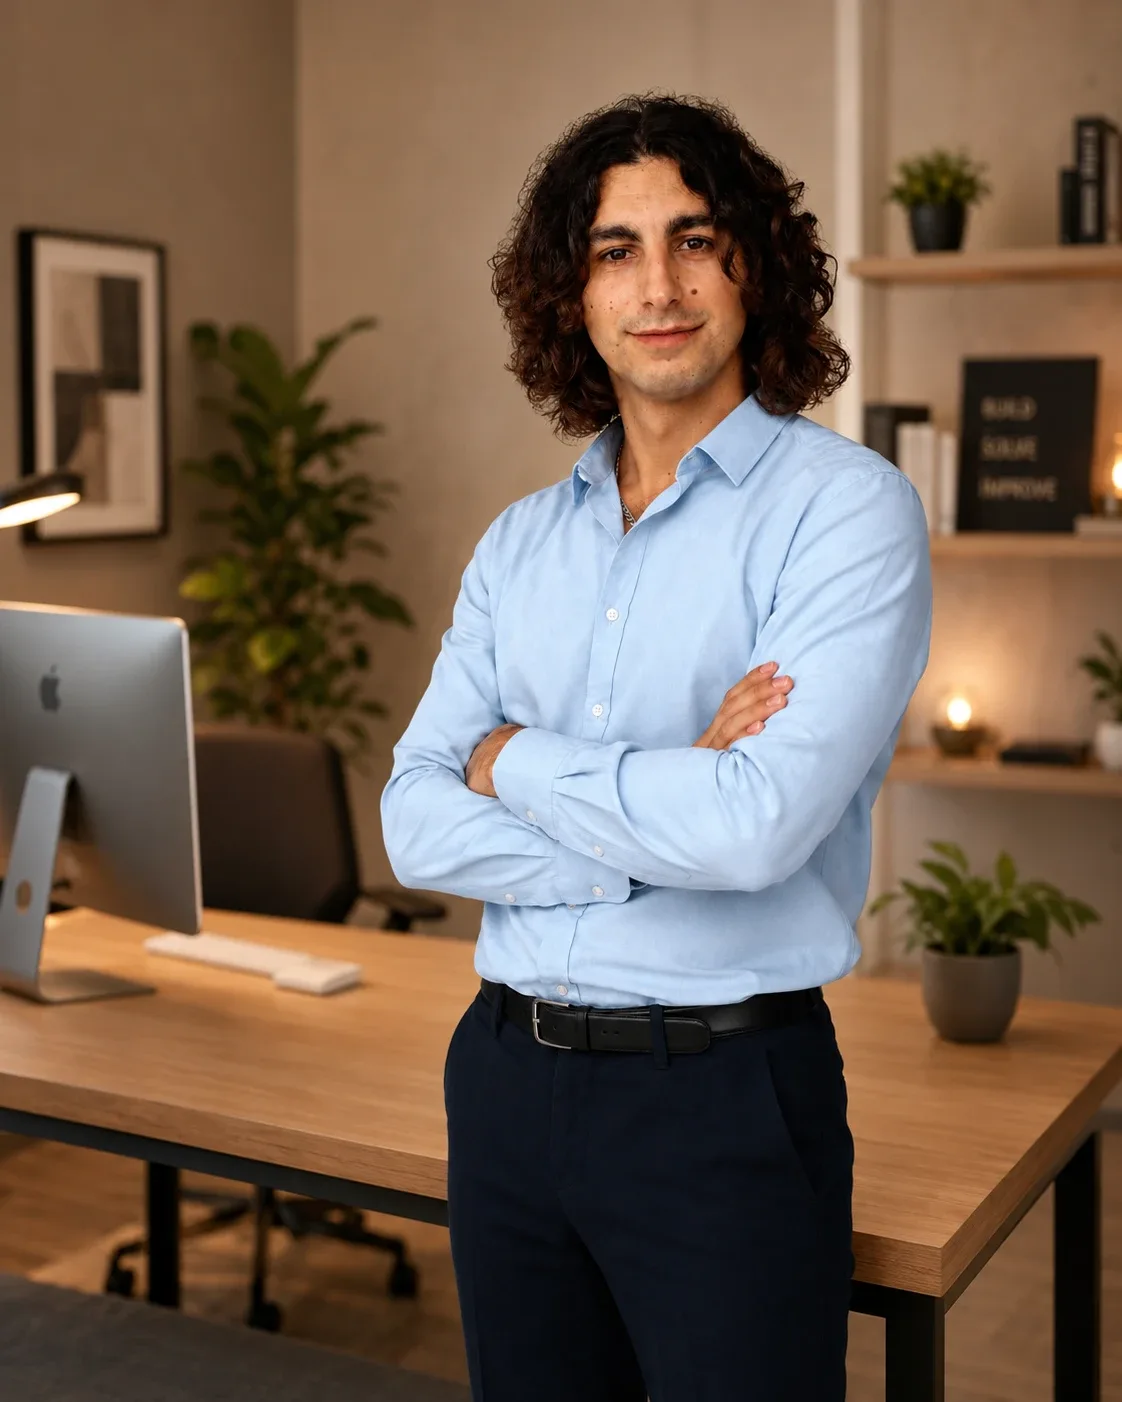
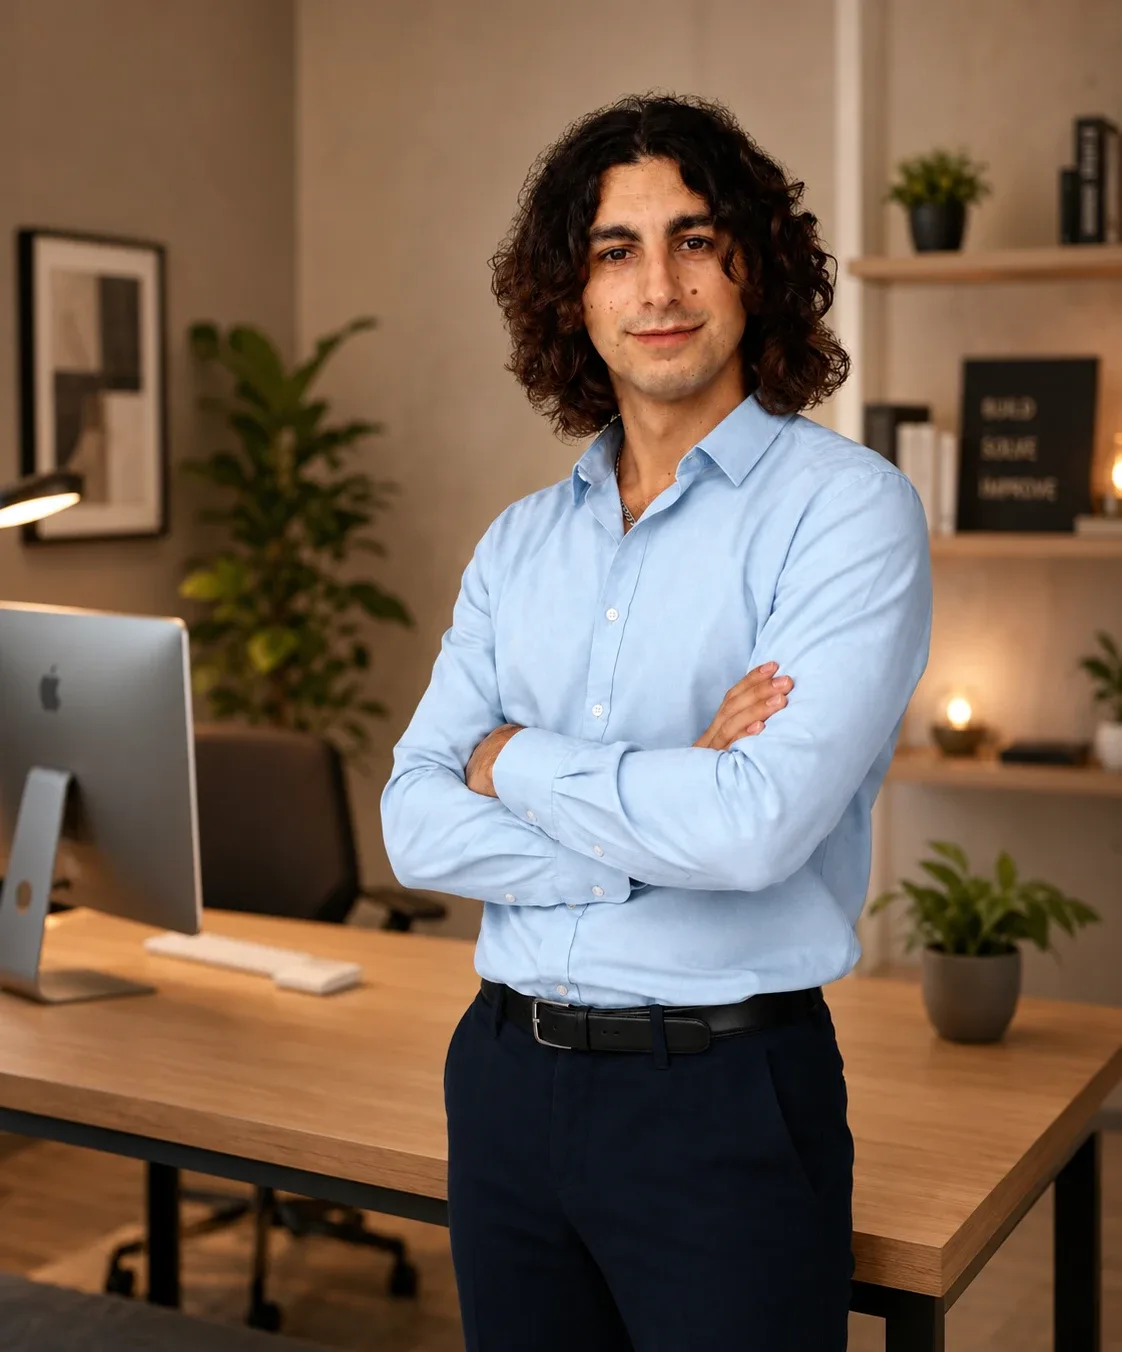
fix(home): recortar 50px inferiores del retrato del hero

diff --git a/next_app/components/Hero.tsx b/next_app/components/Hero.tsx
@@ -67,7 +67,7 @@ export default function Hero() {
                 src="/assets/images/carles-del-olmo-retrato-estudio.webp"
                 alt="Carles del Olmo, diseñador web, en su estudio"
                 width={1122}
-                height={1402}
+                height={1352}
                 priority
                 sizes="(max-width: 767px) 1px, 50vw"
                 className="hero-photo"
